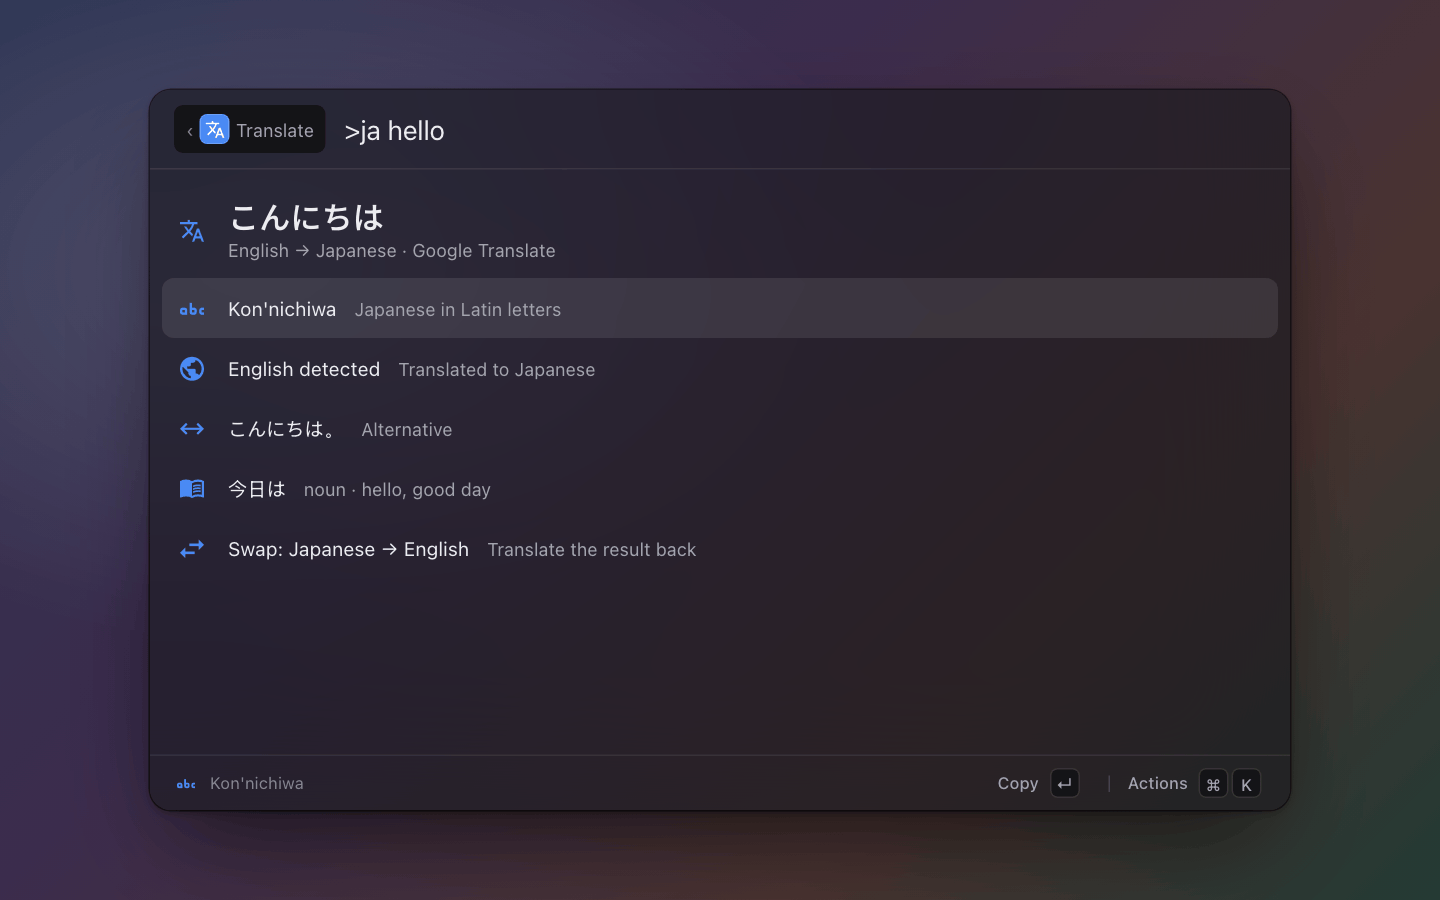
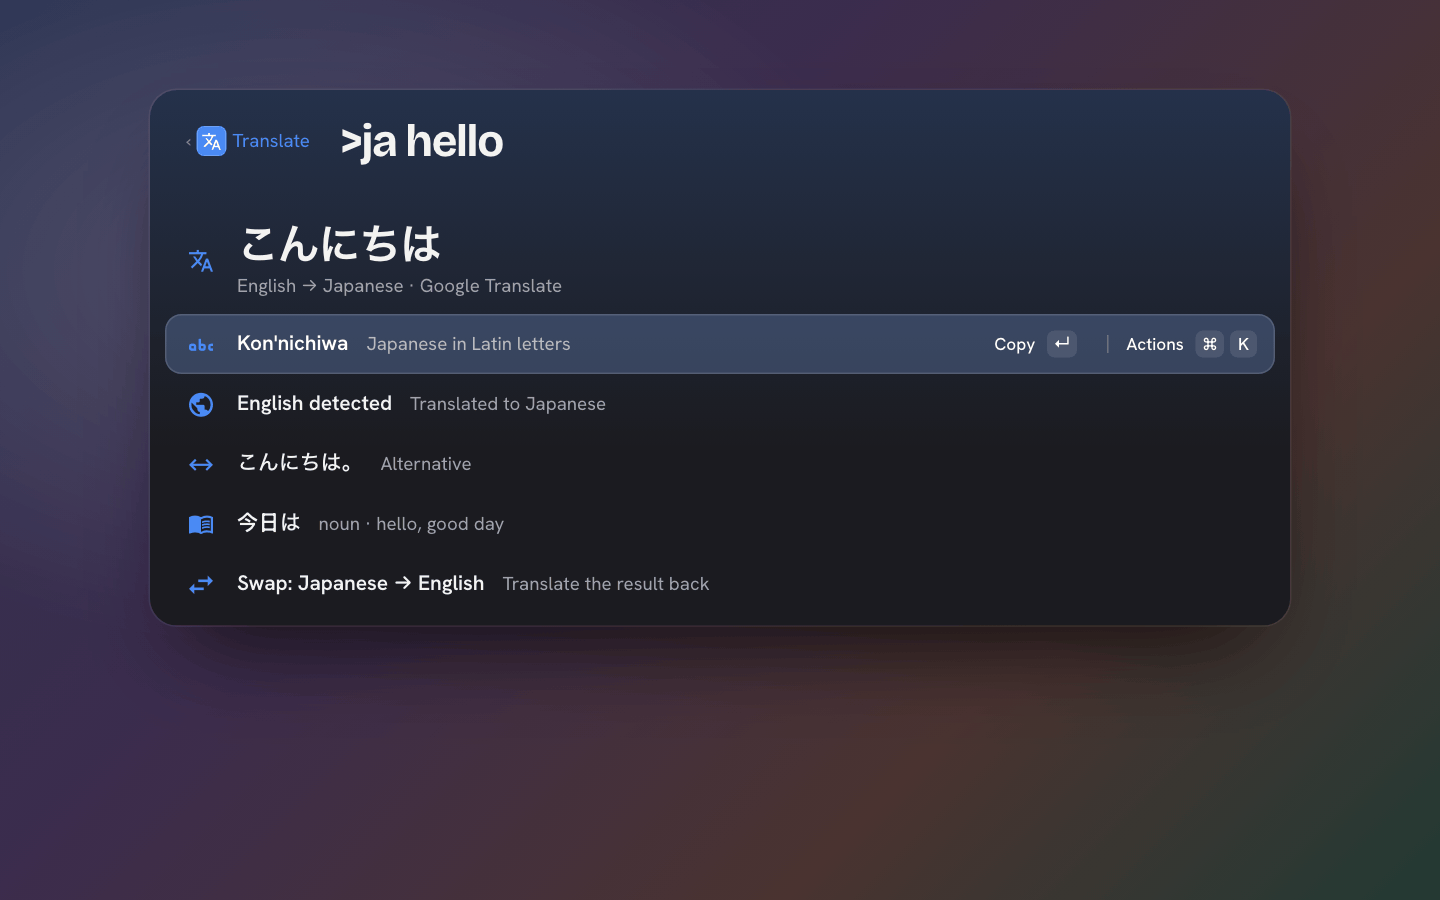
translate: the pane leads with the pair and the translation as its title, the source under it (history too); From/To/Backend rows dropped

diff --git a/extensions/translate/index.ts b/extensions/translate/index.ts
@@ -105,6 +105,13 @@ function textRow(id: string, text: string, lang: string, t: Translation, src: So
   return { id, name: short(text), subtitle: o.subtitle, icon: o.icon ?? GLYPH.translate, ...(id === "translation" ? { hero: true } : {}), keywords: o.keywords, accessories: o.accessories, detail: o.detail ?? { markdown: text }, actions: o.actions ?? [COPY, PASTE, SPEAK, COPY_SOURCE, OPEN_WEB] };
 }
 
+/** A translation's pane: the pair and backend on top, the translation as the title when it is short (else first in the text), the source under it. */
+function paired(result: string, source: string, from: string, to: string, backend: string): Detail {
+  const caption = `${pair(from, to)} · ${backend}`;
+  return result.length <= TITLE_MAX && !result.includes("\n") ? { caption, title: result, markdown: source } : { caption, markdown: `${result}\n\n---\n\n${source}` };
+}
+const TITLE_MAX = 100;
+
 /** Letters outside the Latin script: a romanisation row is worth showing for such a text, and an IPA pronunciation of a Latin one is not one. */
 const nonLatin = (text: string): boolean => /[\p{L}&&[^\p{Script=Latin}]]/v.test(text);
 
@@ -118,11 +125,8 @@ function rows(t: Translation, src: Source, cut: boolean, given: boolean): Item[]
     ];
   }
   const detail: Detail = {
-    markdown: `${t.text}\n\n---\n\n${src.text}`,
+    ...paired(t.text, src.text, t.from, t.to, BACKEND_NAME[t.backend]),
     metadata: [
-      { label: "From", value: `${nameOf(t.from)} (${t.from})` },
-      { label: "To", value: `${nameOf(t.to)} (${t.to})` },
-      { label: "Backend", value: BACKEND_NAME[t.backend] },
       ...(t.confidence !== undefined && !given ? [{ label: "Detection", value: `${Math.round(t.confidence * 100)}% sure` }] : []),
       { label: "Length", value: `${src.text.length} → ${t.text.length} characters${cut ? ` (cut at ${MAX_CHARS})` : ""}` },
     ],
@@ -205,7 +209,7 @@ async function pick(id: string, action?: string, ctx?: Ctx): Promise<Effect> {
 
 // ---- history palette -----------------------------------------------------------------
 
-const historyDetail = (e: Entry): Detail => ({ markdown: `${e.result}\n\n---\n\n${e.text}`, metadata: [{ label: "From", value: nameOf(e.from) }, { label: "To", value: nameOf(e.to) }, { label: "Backend", value: BACKEND_NAME[e.backend] ?? e.backend }, { label: "When", value: when(e.at) }] });
+const historyDetail = (e: Entry): Detail => ({ ...paired(e.result, e.text, e.from, e.to, BACKEND_NAME[e.backend] ?? e.backend), metadata: [{ label: "When", value: when(e.at) }] });
 /** One row per (target, text, result), which is also what `remember` dedupes on; a hash, since the texts can be long. */
 const historyId = (e: Entry) => `h:${createHash("sha1").update(`${e.to}|${e.text}|${e.result}`).digest("hex").slice(0, 16)}`;
 

diff --git a/host/test/extensions/translate.test.ts b/host/test/extensions/translate.test.ts
@@ -164,8 +164,9 @@ describe("translate", () => {
     expect(items[0]).toMatchObject({ name: "Selam Dünya", subtitle: "English → Turkish · Google Translate", keywords: ["hello world"] });
     expect(items[0].actions!.map((a) => a.id)).toEqual(["copy", "paste", "speak", "copy_source", "open"]);
     expect(items[0].actions![2].shortcut).toBe("cmd+shift+s");
-    expect(items[0].detail!.markdown).toBe("Selam Dünya\n\n---\n\nhello world");
-    expect(items[0].detail!.metadata).toEqual([{ label: "From", value: "English (en)" }, { label: "To", value: "Turkish (tr)" }, { label: "Backend", value: "Google Translate" }, { label: "Detection", value: "76% sure" }, { label: "Length", value: "11 → 11 characters" }]);
+    // The pane: the pair on top, the translation as its title, the source under it.
+    expect(items[0].detail).toMatchObject({ caption: "English → Turkish · Google Translate", title: "Selam Dünya", markdown: "hello world" });
+    expect(items[0].detail!.metadata).toEqual([{ label: "Detection", value: "76% sure" }, { label: "Length", value: "11 → 11 characters" }]);
     expect(items[1]).toMatchObject({ name: "English detected", subtitle: "76% sure · translated to Turkish", actions: [] });
     expect(items[2]).toMatchObject({ name: "merhaba dünya", subtitle: "Alternative" });
     expect(items[3]).toMatchObject({ name: "Swap: Turkish → English", actions: [{ id: "swap", title: "Swap and translate" }] });
